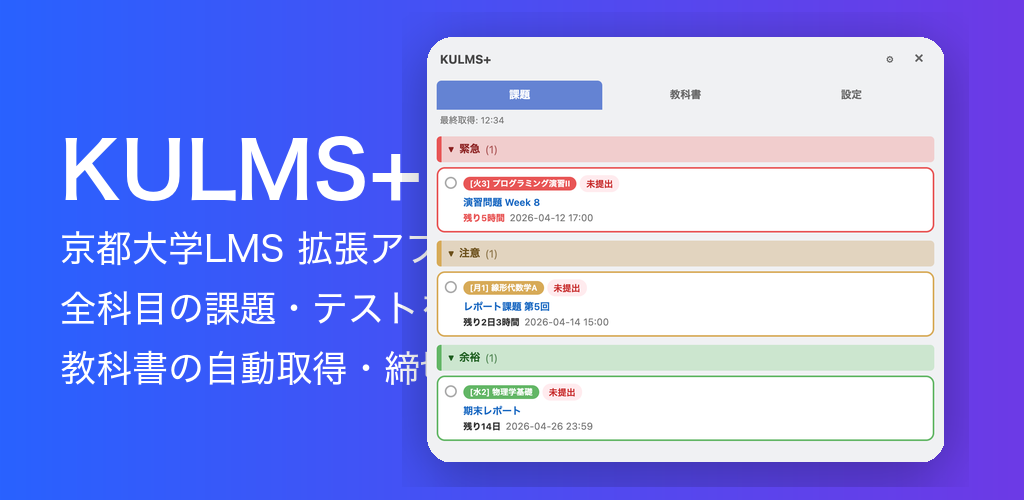
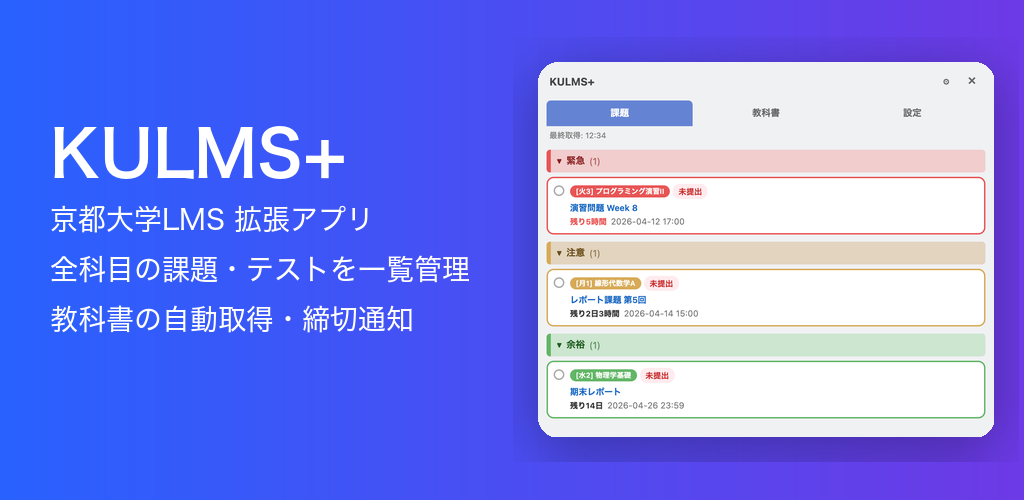
フィーチャーグラフィックのテキストとスクリーンショットの重なりを修正

diff --git a/screenshots/generate.py b/screenshots/generate.py
@@ -95,23 +95,23 @@ def gen_feature_graphic():
     bg = make_gradient_horizontal(W, H, (41, 98, 255), (109, 58, 230)).convert("RGBA")
     draw = ImageDraw.Draw(bg)
 
-    title_font = ImageFont.truetype(FONT_BOLD, 78)
-    sub_font = ImageFont.truetype(FONT_REGULAR, 36)
+    title_font = ImageFont.truetype(FONT_BOLD, 64)
+    sub_font = ImageFont.truetype(FONT_REGULAR, 28)
 
-    draw.text((60, 130), "KULMS+", fill="white", font=title_font)
-    draw.text((60, 230), "京都大学LMS 拡張アプリ", fill=(255, 255, 255, 230), font=sub_font)
-    draw.text((60, 290), "全科目の課題・テストを一覧管理", fill=(255, 255, 255, 200), font=sub_font)
-    draw.text((60, 350), "教科書の自動取得・締切通知", fill=(255, 255, 255, 200), font=sub_font)
+    draw.text((50, 120), "KULMS+", fill="white", font=title_font)
+    draw.text((50, 205), "京都大学LMS 拡張アプリ", fill=(255, 255, 255, 230), font=sub_font)
+    draw.text((50, 255), "全科目の課題・テストを一覧管理", fill=(255, 255, 255, 200), font=sub_font)
+    draw.text((50, 305), "教科書の自動取得・締切通知", fill=(255, 255, 255, 200), font=sub_font)
 
     ss = Image.open(SRC_01).convert("RGBA")
-    target_h = int(H * 0.85)
+    target_h = int(H * 0.75)
     scale = target_h / ss.height
     target_w = int(ss.width * scale)
     ss = ss.resize((target_w, target_h), Image.LANCZOS)
-    ss = add_rounded_corners(ss, 25)
+    ss = add_rounded_corners(ss, 20)
 
     shadow, blur_r = add_shadow(ss, offset=(0, 10), blur_radius=25, opacity=80)
-    ss_x = W - target_w - 80
+    ss_x = W - target_w - 30
     ss_y = (H - target_h) // 2
     bg.paste(shadow, (ss_x - blur_r, ss_y - blur_r), shadow)
     bg.paste(ss, (ss_x, ss_y), ss)
